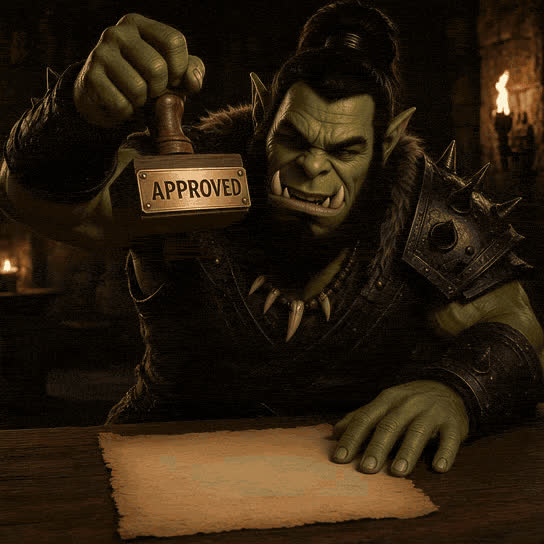
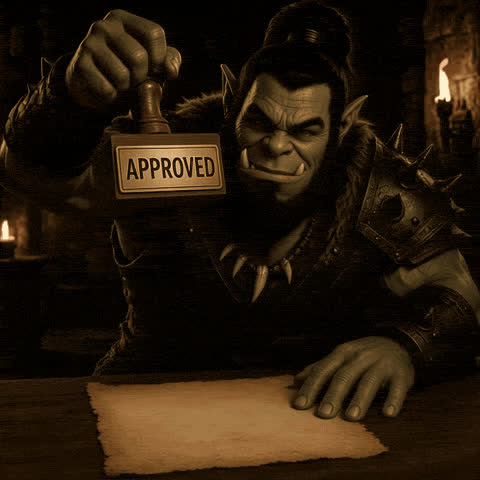
Reshoot Approves so the mark matches the stamp.
The ink is the same size as the stamp face, then the shot pushes in on APPROVED.

diff --git a/scripts/imagine-video.ts b/scripts/imagine-video.ts
@@ -40,7 +40,7 @@ const PROMPTS: Record<string, string> = {
   angry:
     "The orc shouts in anger, a short roar, shoulders heaving, glare holding on the camera. Locked camera.",
   approves:
-    "He slams the APPROVED stamp down onto the blank parchment. The word APPROVED prints in bold red ink and stays readable. He lifts the stamp to show it. Satisfied closed-mouth grin. Mouth stays closed, no talking. Locked camera.",
+    "He slams the APPROVED stamp onto the blank parchment. The red mark is the same width and height as the stamp face. He lifts the stamp, then the camera zooms in until APPROVED fills the frame and stays readable. Satisfied closed-mouth grin. Mouth stays closed, no talking.",
   annoyed:
     "The orc watches, eyes narrowing, a small exasperated blink and a tiny head tilt. He stays annoyed. His hands never rise. He does not touch his face or nose. He does not shout. Mouth stays closed, no talking. Locked camera.",
   beach:
